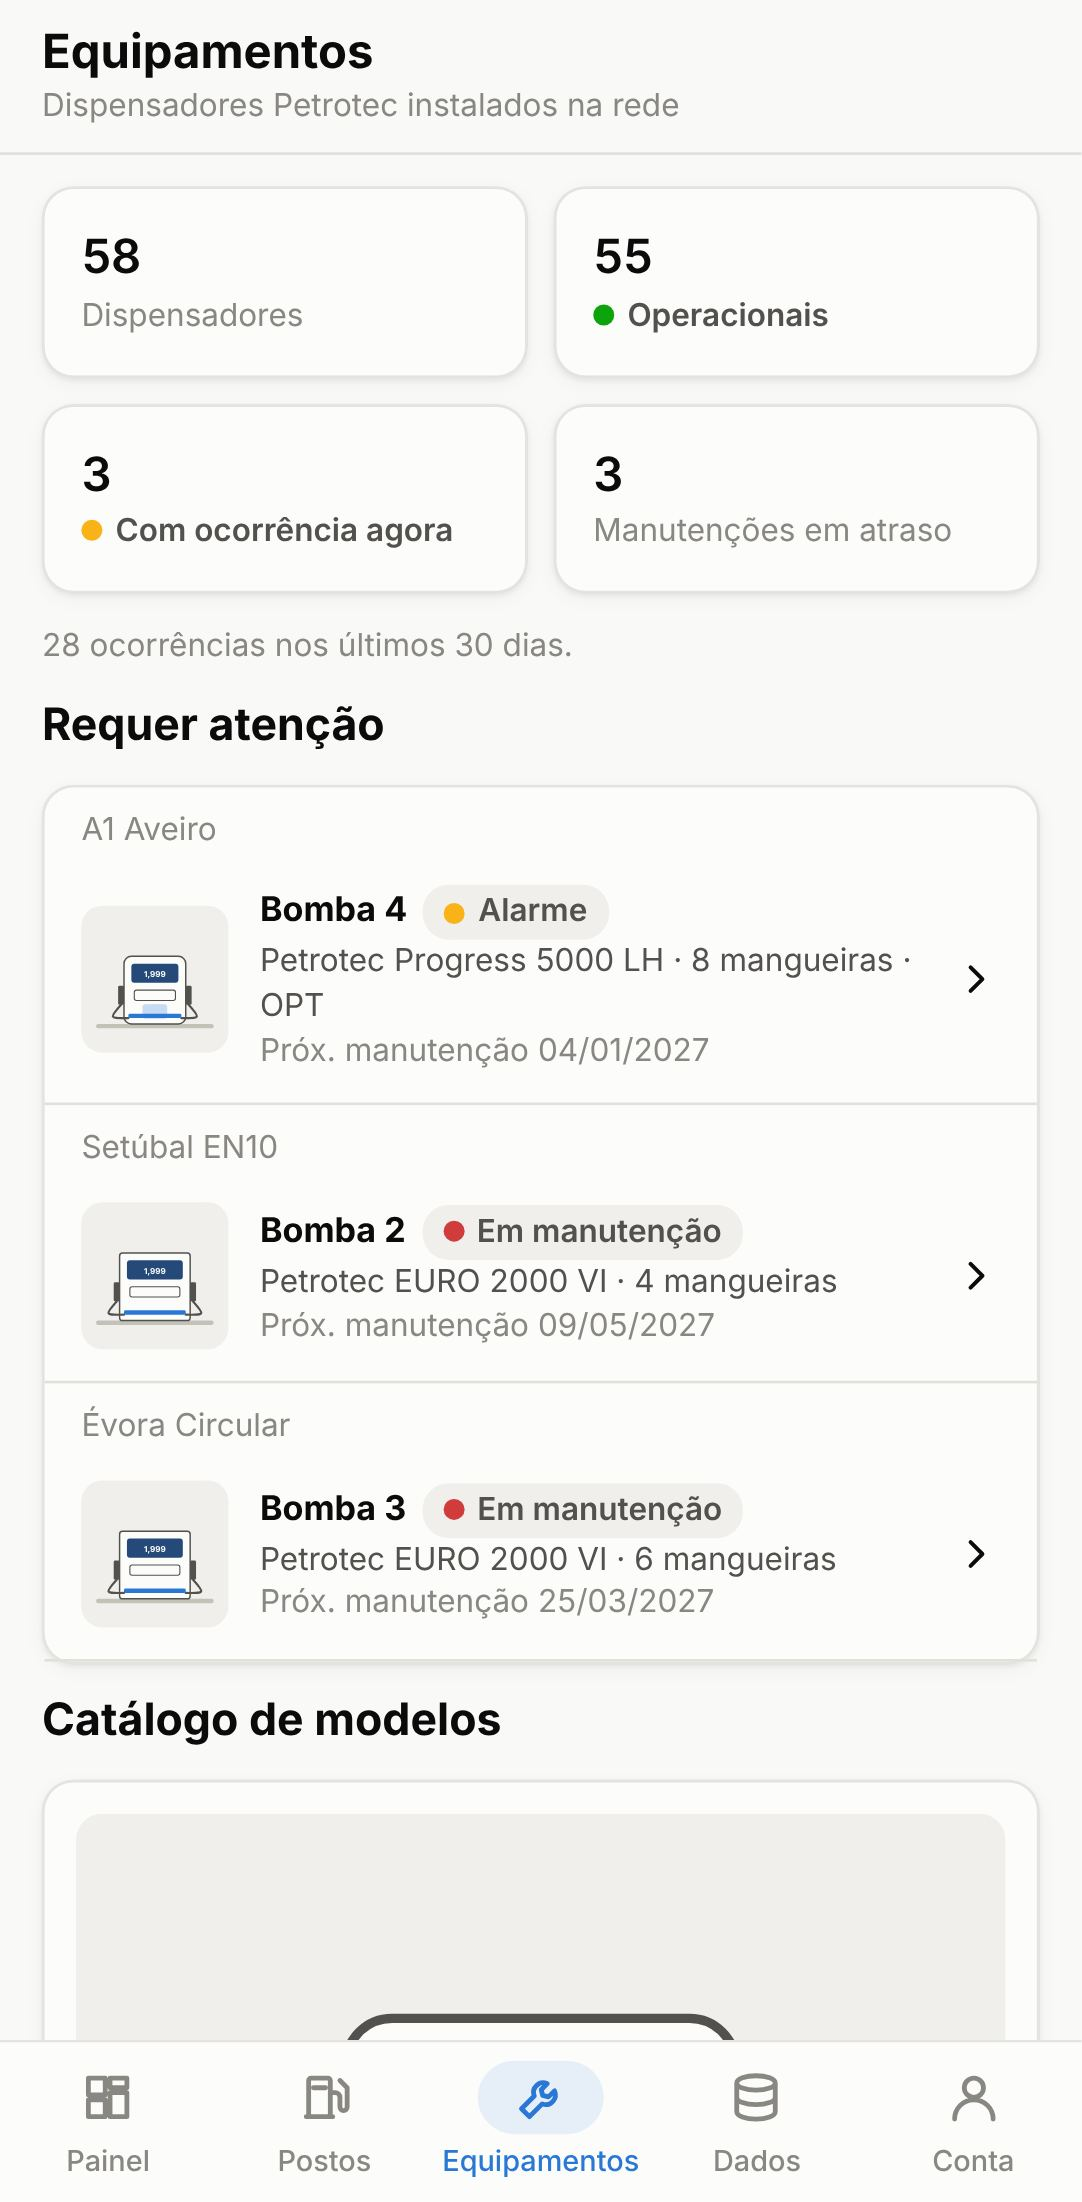
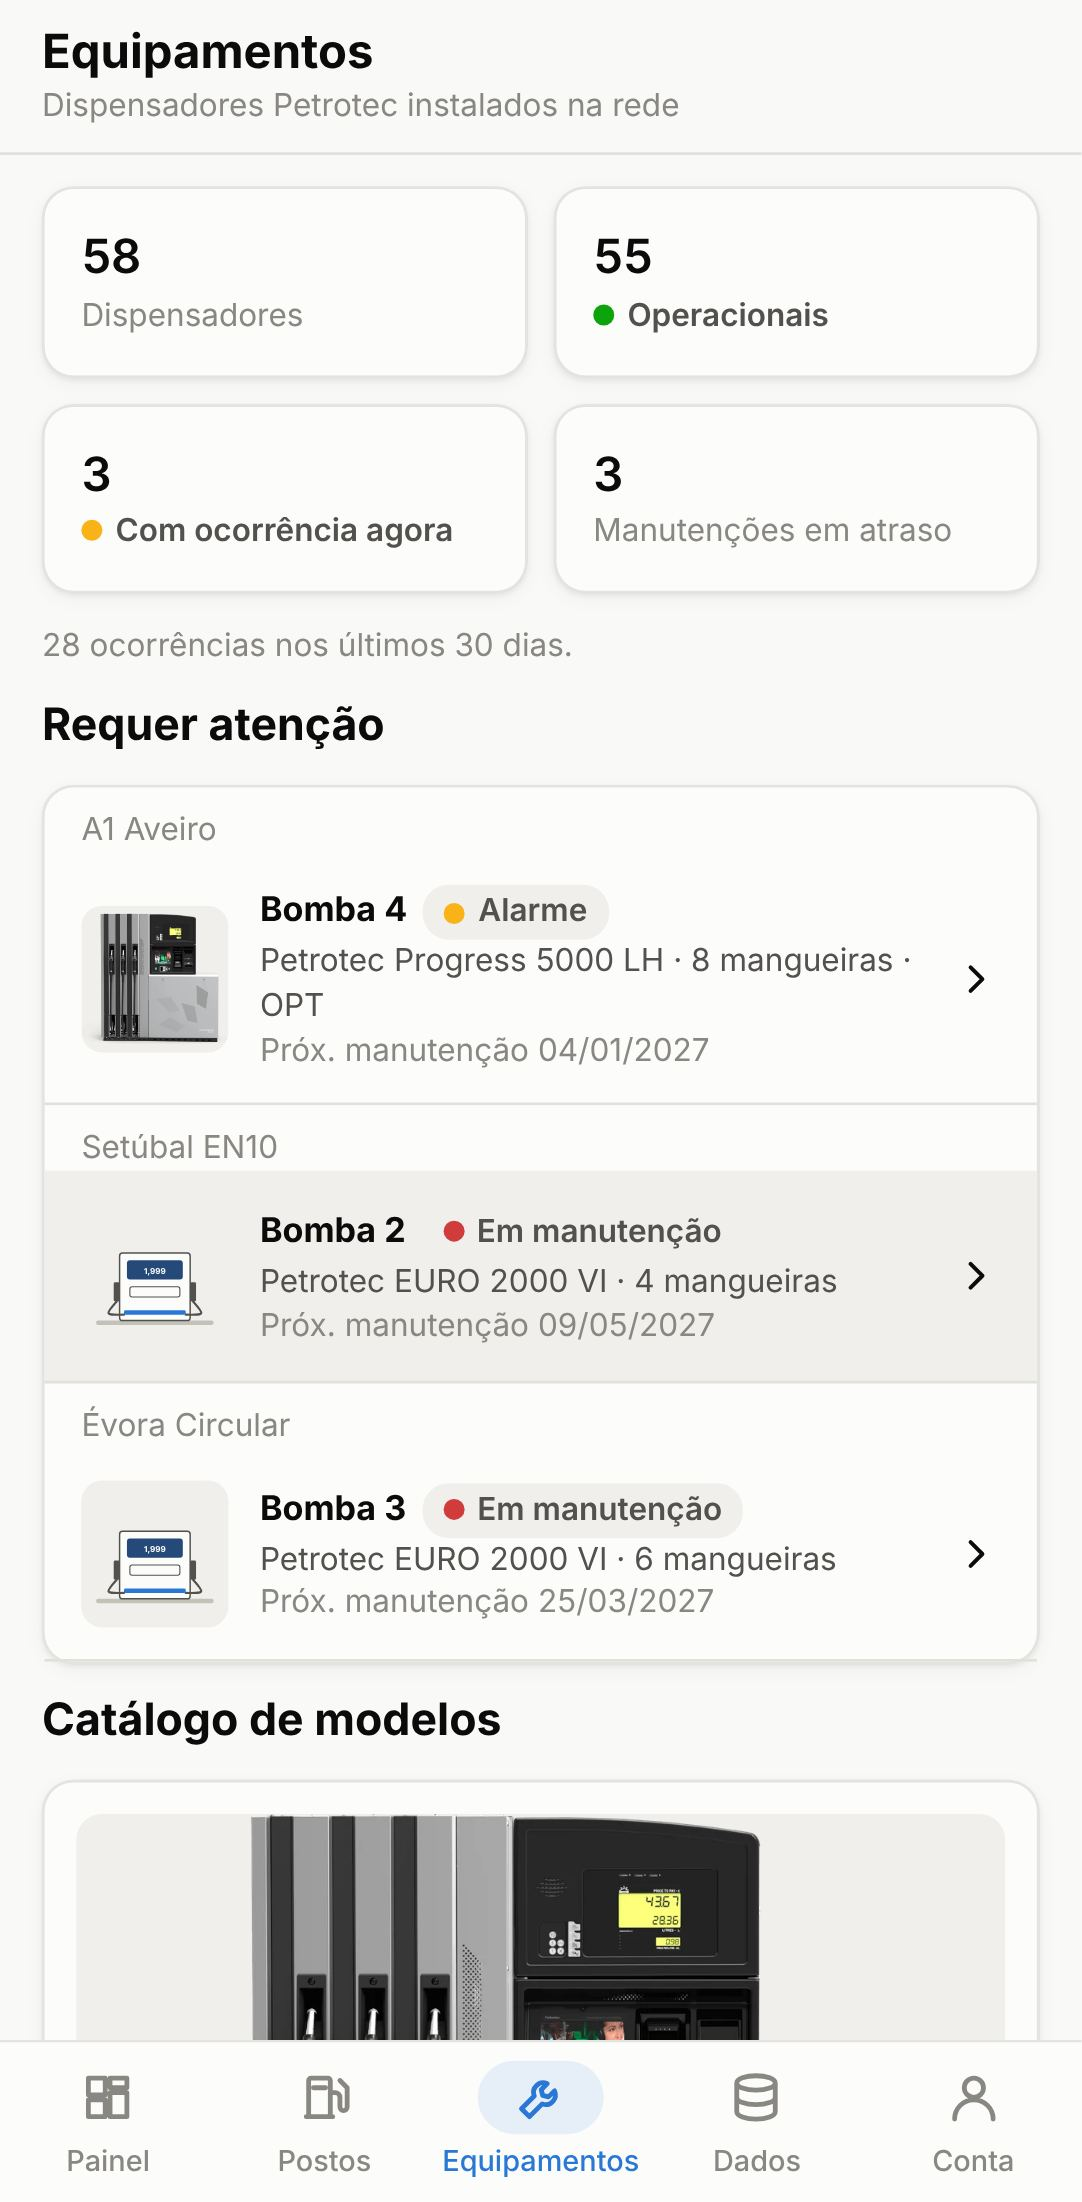
Use official Petrotec product images and specs
- Add official product images (from petrotec.com, used with the
  company's authorisation) for Progress 5000 LH, Progress 5000 HH,
  Progress 1000 Retail and the Progress LPG range, trimmed and
  converted to ~1000px WebP, registered in public/equipment/manifest.json
  with optional captions.
- Update catalogue specs and source links from the official product
  pages; fix P1000 R to a single grade with 1-2 hoses; flag the
  4-vs-5 grades inconsistency on the P5000 HH page.
- EURO 2000 VI is no longer listed on the site and keeps the generic
  illustration.
- Update README, DADOS.md and screenshots.

Claude-Session: https://claude.ai/code/session_01TPHwaXRENLcediWk3nxh2C

Changed region(s): [[0.2135, 0.8029, 0.7015, 0.9264], [0.0915, 0.4015, 0.2135, 0.4941]]

diff --git a/fuel-hq/src/data/catalog.ts b/fuel-hq/src/data/catalog.ts
@@ -56,8 +56,9 @@ export const STATIONS: Station[] = [
 ];
 
 /**
- * Catálogo de modelos Petrotec usados na rede. Só inclui afirmações que
- * encontrámos em fontes públicas; tudo o resto fica como "a confirmar".
+ * Catálogo de modelos Petrotec usados na rede. As características vêm das
+ * páginas oficiais em petrotec.com (consultadas a 11/11/2026), exceto o
+ * EURO 2000 VI, que já não está no site e usa um certificado de aprovação.
  */
 export const EQUIPMENT_MODELS: EquipmentModel[] = [
   {
@@ -65,11 +66,13 @@ export const EQUIPMENT_MODELS: EquipmentModel[] = [
     brand: "Petrotec",
     name: "Progress 5000 LH",
     family: "Progress (retalho)",
-    summary: "Dispensador mais configurável da gama Progress, compatível com soluções multimédia e OPT (terminal de pagamento exterior) com ecrã tátil.",
+    summary: "O dispensador mais personalizável da gama Progress, com sistema de retração elástica da mangueira e todas as opções de multimédia e pagamento.",
     specs: [
-      { label: "Produtos", value: "até 5" },
+      { label: "Produtos", value: "até 5 grelhas de combustível" },
       { label: "Mangueiras", value: "até 10" },
-      { label: "Pagamento", value: "compatível com OPT tátil" },
+      { label: "Caudal", value: "até 130 L/min" },
+      { label: "Combinável com", value: "GPL e AdBlue (com aquecimento)" },
+      { label: "Pagamento", value: "todas as opções multimédia/pagamento" },
     ],
     sourceUrl: "https://www.petrotec.com/products/p5000-lh",
     sourceLabel: "petrotec.com — Progress 5000 LH",
@@ -80,32 +83,44 @@ export const EQUIPMENT_MODELS: EquipmentModel[] = [
     brand: "Petrotec",
     name: "Progress 5000 HH",
     family: "Progress (retalho)",
-    summary: "Variante de mangueira suspensa (hanging hose) da gama Progress 5000.",
+    summary: "Versão de mangueira suspensa (hanging hose) do Progress 5000: mangueira mais comprida e melhor relação entre custo de manutenção por mangueira, proteção e acesso ao dispensador.",
     specs: [
-      { label: "Produtos", value: "até 4" },
-      { label: "Mangueiras", value: "até 8" },
+      { label: "Produtos", value: "até 4 grelhas (a mesma página também refere até 5)" },
+      { label: "Mangueiras", value: "até 8 (a mesma página também refere até 10)" },
       { label: "Caudal máximo", value: "130 L/min" },
+      { label: "Pagamento", value: "multimédia e pagamento disponíveis" },
     ],
-    sourceUrl: "https://www.petrotec.eu/products-and-services/dispensers/retail-line/p5000-hh.aspx",
-    sourceLabel: "petrotec.eu — P5000 HH",
+    sourceUrl: "https://www.petrotec.com/products/p5000-hh",
+    sourceLabel: "petrotec.com — Progress 5000 HH",
     products: ["gasoleo", "g95", "gasoleo_plus", "g98"],
   },
   {
     id: "p1000r",
     brand: "Petrotec",
-    name: "Progress 1000 R",
+    name: "Progress 1000 Retail",
     family: "Progress (retalho)",
-    summary: "Modelo de entrada da gama Progress.",
-    specs: [{ label: "Especificações", value: "a confirmar com a Petrotec" }],
-    products: ["gasoleo", "g95"],
+    summary: "Modelo de entrada da gama Progress para retalho, com a menor área ocupada da família e as mesmas tecnologias base dos modelos premium.",
+    specs: [
+      { label: "Produtos", value: "1 grelha de combustível" },
+      { label: "Mangueiras", value: "1 ou 2" },
+      { label: "Caudal", value: "até 130 L/min" },
+      { label: "Configuração", value: "mangueira normal ou braço aéreo" },
+    ],
+    sourceUrl: "https://www.petrotec.com/products/p1000-r",
+    sourceLabel: "petrotec.com — Progress 1000 Retail",
+    products: ["gasoleo"],
   },
   {
     id: "progress-lpg",
     brand: "Petrotec",
     name: "Progress LPG",
     family: "Progress (GPL)",
-    summary: "Dispensador de GPL Auto da gama Progress.",
-    specs: [{ label: "Especificações", value: "a confirmar com a Petrotec" }],
+    summary: "Gama de dispensadores de GPL Auto, com versões de ilha e de faixa, standalone e combo.",
+    specs: [
+      { label: "Mangueiras", value: "1 ou 2" },
+      { label: "Caudal", value: "até 60 L/min" },
+      { label: "Modelos", value: "Progress 5000 LPG (standalone e combo), Progress 2000 LPG (entrada, retalho), Progress 1500 LPG (industrial)" },
+    ],
     sourceUrl: "https://www.petrotec.com/products/progress-lpg",
     sourceLabel: "petrotec.com — Progress LPG",
     products: ["gpl"],
@@ -115,7 +130,7 @@ export const EQUIPMENT_MODELS: EquipmentModel[] = [
     brand: "Petrotec",
     name: "EURO 2000 VI",
     family: "EURO (geração anterior)",
-    summary: "Gama EURO de dispensadores; configurações construídas a partir de unidades de bombagem, medidores de volume e mangueiras.",
+    summary: "Gama EURO de dispensadores (geração anterior, já não listada no site da Petrotec); configurações construídas a partir de unidades de bombagem, medidores de volume e mangueiras.",
     specs: [
       { label: "Produtos", value: "até 4" },
       { label: "Mangueiras", value: "até 8" },

diff --git a/fuel-hq/src/pages/EquipmentPage.tsx b/fuel-hq/src/pages/EquipmentPage.tsx
@@ -23,7 +23,11 @@ function EquipmentImage({ modelId, name, large }: { modelId: string; name: strin
       )}
       {large && (
         <figcaption className="tiny muted" style={{ marginTop: 6 }}>
-          {showImg ? (img.origin === "oficial" ? "Imagem oficial (pasta equipment/ da app)." : "Imagem definida neste dispositivo.") : "Ilustração genérica — substitua pela imagem oficial do equipamento."}
+          {showImg
+            ? img.origin === "oficial"
+              ? `Imagem oficial Petrotec.${img.caption ? ` ${img.caption}` : ""}`
+              : "Imagem definida neste dispositivo."
+            : "Ilustração genérica: não há imagem oficial deste modelo no site atual da Petrotec."}
         </figcaption>
       )}
     </figure>
@@ -93,7 +97,7 @@ export function EquipmentPage({ modelId }: { modelId?: string }) {
             );
           })}
         </div>
-        <p className="tiny muted">As especificações listadas foram retiradas de fontes públicas (ver ligação em cada modelo) e devem ser confirmadas com a Petrotec. Números de série, estados e ocorrências são simulados.</p>
+        <p className="tiny muted">Imagens e características dos modelos retiradas de petrotec.com (ver ligação em cada modelo). Números de série, estados e ocorrências são simulados.</p>
       </main>
     </>
   );
@@ -161,7 +165,7 @@ function ModelDetail({ id }: { id: string }) {
               </div>
               {img.origin === "utilizador" && <button className="btn danger" onClick={() => { equipmentImages.clear(id); setMsg("Imagem removida."); }}><Icon name="trash" size={18} /> Remover imagem definida</button>}
               {msg && <div className="small ink2" role="status">{msg}</div>}
-              <p className="tiny muted" style={{ margin: 0 }}>Use apenas imagens que a empresa tenha direito a utilizar (por exemplo, fornecidas pela Petrotec). Para distribuir imagens oficiais com a app, coloque-as em <code>public/equipment/</code> e registe-as no <code>manifest.json</code>.</p>
+              <p className="tiny muted" style={{ margin: 0 }}>A imagem escolhida aqui fica só neste dispositivo e tem prioridade sobre a imagem oficial incluída na app. Para mudar a imagem para todos, troque o ficheiro em <code>public/equipment/</code> e o <code>manifest.json</code>.</p>
             </div>
           </details>
         )}

diff --git a/fuel-hq/src/data/equipmentImages.ts b/fuel-hq/src/data/equipmentImages.ts
@@ -34,20 +34,34 @@ export const equipmentImages = {
   },
 };
 
-let manifestPromise: Promise<Record<string, string>> | null = null;
-function loadManifest(): Promise<Record<string, string>> {
+interface Manifest {
+  images: Record<string, string>;
+  captions: Record<string, string>;
+  source?: string;
+}
+const EMPTY: Manifest = { images: {}, captions: {} };
+
+let manifestPromise: Promise<Manifest> | null = null;
+function loadManifest(): Promise<Manifest> {
   if (!manifestPromise) {
     manifestPromise = fetch("./equipment/manifest.json", { cache: "no-cache" })
-      .then((r) => (r.ok ? r.json() : {}))
-      .then((j: { images?: Record<string, string> } | null) => (j && typeof j === "object" && j.images ? j.images : {}))
-      .catch(() => ({}));
+      .then((r) => (r.ok ? r.json() : null))
+      .then((j: Partial<Manifest> | null) => (j && typeof j === "object" ? { images: j.images ?? {}, captions: j.captions ?? {}, source: j.source } : EMPTY))
+      .catch(() => EMPTY);
   }
   return manifestPromise;
 }
 
-export function useEquipmentImage(modelId: string): { src: string | null; origin: "utilizador" | "oficial" | "ilustração" } {
+export interface EquipmentImage {
+  src: string | null;
+  origin: "utilizador" | "oficial" | "ilustração";
+  caption?: string;
+  source?: string;
+}
+
+export function useEquipmentImage(modelId: string): EquipmentImage {
   const user = useSyncExternalStore(equipmentImages.subscribe, equipmentImages.get, equipmentImages.get);
-  const [manifest, setManifest] = useState<Record<string, string>>({});
+  const [manifest, setManifest] = useState<Manifest>(EMPTY);
   useEffect(() => {
     let alive = true;
     loadManifest().then((m) => alive && setManifest(m));
@@ -56,7 +70,7 @@ export function useEquipmentImage(modelId: string): { src: string | null; origin
     };
   }, []);
   if (user[modelId]) return { src: user[modelId], origin: "utilizador" };
-  if (manifest[modelId]) return { src: `./equipment/${manifest[modelId]}`, origin: "oficial" };
+  if (manifest.images[modelId]) return { src: `./equipment/${manifest.images[modelId]}`, origin: "oficial", caption: manifest.captions[modelId], source: manifest.source };
   return { src: null, origin: "ilustração" };
 }
 

diff --git a/fuel-hq/README.md b/fuel-hq/README.md
@@ -23,7 +23,7 @@ App móvel (Android) para a sede acompanhar uma rede de postos: vendas de combus
   - **Construtor de gráficos**: escolher métrica (22 indicadores), dimensão do eixo (tempo, posto, produto, região, tipologia, dia da semana, hora), desagregação em séries, filtros próprios, ordenação e nº de séries antes de agrupar em «Outros». Pré-visualização em tempo real.
   - Cada gráfico tem **vista de tabela** e vista **expandida**.
 - **Postos**: lista com indicadores dos últimos 30 dias, alertas de tanques e equipamentos; detalhe com níveis dos tanques, bombas e ocorrências.
-- **Equipamentos**: catálogo de modelos Petrotec (Progress 5000 LH/HH, Progress 1000 R, Progress LPG, EURO 2000 VI) com imagem, características e ligação à fonte; parque instalado com estado, disponibilidade a 90 dias, totalizador e manutenções em atraso.
+- **Equipamentos**: catálogo de modelos Petrotec (Progress 5000 LH/HH, Progress 1000 Retail, Progress LPG, EURO 2000 VI) com imagens oficiais, características e ligação à página do produto; parque instalado com estado, disponibilidade a 90 dias, totalizador e manutenções em atraso.
 - **Dados**: explicação do que é real/simulado, tabela de fontes dos preços, e **importação de CSV** (formato português) para criar gráficos com os seus próprios dados — por exemplo, exportações do portal de preços da DGEG.
 - Tema claro/escuro, interface em português, pensada para telemóvel (funciona também em tablet/desktop).
 
@@ -66,14 +66,19 @@ A app é construída com **Capacitor** (React + TypeScript dentro de um WebView 
 
 ## Imagens dos equipamentos Petrotec
 
-A app **não inclui fotografias da Petrotec**: são material com direitos de autor e não foi possível descarregá-las neste ambiente. Até as acrescentar, mostra ilustrações genéricas originais. Há duas formas de usar as imagens oficiais (obtenha-as junto da Petrotec ou confirme que a empresa tem direito a usá-las):
+A app inclui as **imagens oficiais** de quatro modelos, descarregadas de [petrotec.com](https://www.petrotec.com/product-category/fuel-dispensers) a 11/11/2026 e usadas com autorização da empresa. Estão em `public/equipment/` (WebP, ≈1000 px, 40–65 KB cada) e registadas em `public/equipment/manifest.json`:
 
-1. **Distribuídas com a app (recomendado):** copie os ficheiros para `fuel-hq/public/equipment/` e registe-os em `public/equipment/manifest.json`:
-   ```json
-   { "images": { "p5000-lh": "p5000-lh.jpg", "p5000-hh": "p5000-hh.jpg", "progress-lpg": "progress-lpg.png" } }
-   ```
-   Ids disponíveis: `p5000-lh`, `p5000-hh`, `p1000r`, `progress-lpg`, `euro2000-vi`.
-2. **No telemóvel:** em Equipamentos → modelo → «Alterar imagem do equipamento», tire/escolha uma fotografia ou indique um endereço `https://` da imagem. Fica guardado só nesse dispositivo.
+| Modelo (id) | Ficheiro | Origem |
+|---|---|---|
+| Progress 5000 LH (`p5000-lh`) | `p5000-lh.webp` | imagem do produto na página de dispensadores |
+| Progress 5000 HH (`p5000-hh`) | `p5000-hh.webp` | idem |
+| Progress 1000 Retail (`p1000r`) | `p1000r.webp` | idem |
+| Progress LPG (`progress-lpg`) | `progress-lpg.webp` | imagem do **Progress 2000 LPG**, usada pela Petrotec para a gama Progress LPG |
+| EURO 2000 VI (`euro2000-vi`) | — | modelo de geração anterior, já não listado no site; mostra uma ilustração genérica |
+
+Para trocar ou acrescentar imagens:
+1. **Para todos (distribuídas com a app):** coloque o ficheiro em `fuel-hq/public/equipment/` e associe-o ao id do modelo em `manifest.json` (campo `images`; o campo `captions` é opcional).
+2. **Só num telemóvel:** em Equipamentos → modelo → «Alterar imagem do equipamento», tire/escolha uma fotografia ou indique um endereço `https://`. Esta imagem tem prioridade sobre a oficial nesse dispositivo.
 
 ## Passar para produção
 

diff --git a/fuel-hq/DADOS.md b/fuel-hq/DADOS.md
@@ -73,16 +73,18 @@ Cenários incluídos de propósito para os gráficos terem algo para encontrar:
 
 ## 4. Equipamentos Petrotec
 
-Modelos em `src/data/catalog.ts`. Só foram incluídas afirmações encontradas em fontes públicas:
+Modelos em `src/data/catalog.ts`. As características foram retiradas das páginas oficiais da Petrotec, consultadas a 11/11/2026:
 
 | Modelo | Informação usada | Fonte |
 |---|---|---|
-| Progress 5000 LH | até 5 produtos e 10 mangueiras; compatível com multimédia e OPT tátil | https://www.petrotec.com/products/p5000-lh |
-| Progress 5000 HH | mangueira suspensa; até 4 produtos, 8 mangueiras, 130 L/min | https://www.petrotec.eu/products-and-services/dispensers/retail-line/p5000-hh.aspx |
-| Progress 1000 R | modelo de entrada da gama Progress | pesquisa web — **sem fonte primária verificada** |
-| Progress LPG | dispensador de GPL da gama Progress | https://www.petrotec.com/products/progress-lpg |
-| EURO 2000 VI | até 4 produtos e 8 mangueiras | certificado UK-2780 (gov.uk): https://assets.publishing.service.gov.uk/media/5a7c141940f0b61a825d6506/UK-2780-revision-3.pdf |
+| Progress 5000 LH | até 5 grelhas de combustível e 10 mangueiras; até 130 L/min; combinável com GPL e AdBlue (com aquecimento); retração elástica da mangueira; todas as opções multimédia/pagamento | https://www.petrotec.com/products/p5000-lh |
+| Progress 5000 HH | versão de mangueira suspensa; até 4 grelhas, 8 mangueiras e 130 L/min (a mesma página também refere «até 5 grelhas e 10 mangueiras»: **inconsistência no site, confirmar com a Petrotec**) | https://www.petrotec.com/products/p5000-hh |
+| Progress 1000 Retail (P1000 R) | modelo de entrada da gama Progress para retalho; 1 grelha, 1 ou 2 mangueiras; até 130 L/min; mangueira normal ou braço aéreo | https://www.petrotec.com/products/p1000-r |
+| Progress LPG | gama de GPL (Progress 5000 LPG standalone e combo, Progress 2000 LPG, Progress 1500 LPG); 1 ou 2 mangueiras; até 60 L/min | https://www.petrotec.com/products/progress-lpg |
+| EURO 2000 VI | até 4 produtos e 8 mangueiras (geração anterior, não listada no site atual) | certificado UK-2780 (gov.uk): https://assets.publishing.service.gov.uk/media/5a7c141940f0b61a825d6506/UK-2780-revision-3.pdf |
+
+O site da Petrotec lista ainda outros dispensadores que **não** estão no catálogo da app (gama Axon 1000/2000/4000/5000 e Axon LPG; Progress P1000, P1500, P2000, P3000, P4000; Progress AdBlue; Eurotank AdBlue III). Podem ser acrescentados se fizerem parte do parque da empresa.
 
 Números de série (prefixo `DEMO-`), datas de instalação, totalizadores, estados e ocorrências são **simulados**.
 
-**Imagens:** a app não inclui fotografias da Petrotec (não foi possível descarregá-las neste ambiente e são material com direitos de autor). Mostra ilustrações genéricas originais até lhe dar as imagens oficiais — ver README, secção «Imagens dos equipamentos».
+**Imagens:** imagens oficiais de produto descarregadas de petrotec.com a 11/11/2026 e usadas com autorização da empresa (ver README, secção «Imagens dos equipamentos Petrotec»). A imagem da gama Progress LPG mostra o modelo Progress 2000 LPG. O EURO 2000 VI não tem imagem oficial no site atual e mostra uma ilustração genérica.
